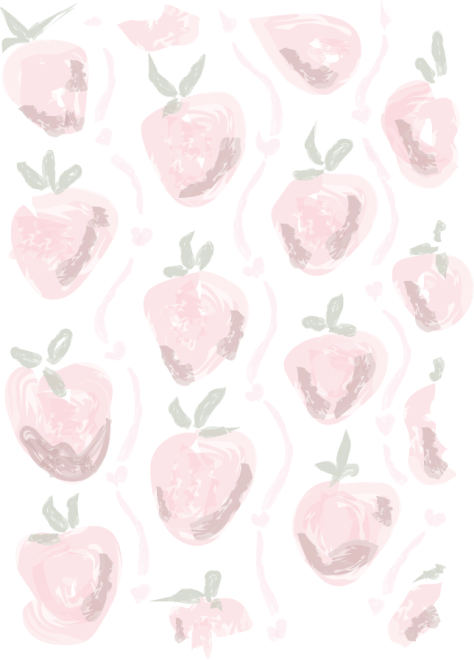
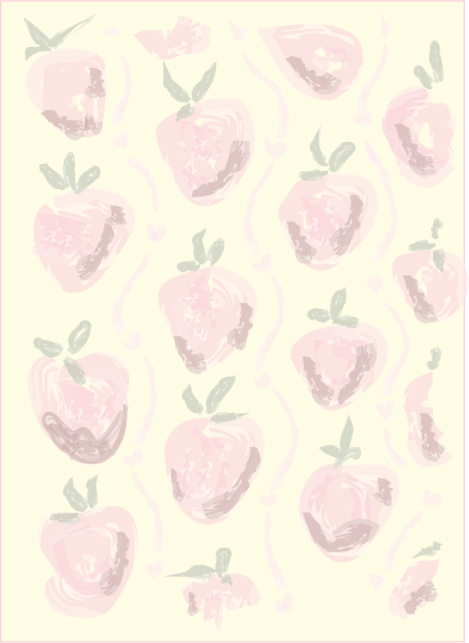
Begging Image

diff --git a/loadImagesFond.js b/loadImagesFond.js
@@ -1,0 +1,27 @@
+const fs = require('fs');
+const path = require('path');
+
+const imagesDirectory = './static/fond'; // Chemin vers le dossier des images
+console.log("")
+
+// Supprimer le contenu existant du fichier imagesList.js
+fs.writeFileSync('./public/imagesListFond.js', '', 'utf-8');
+
+fs.readdir(imagesDirectory, (err, files) => {
+  if (err) {
+    console.error('Erreur lors de la lecture du dossier des images', err);
+    return;
+  }
+
+  // Filtrer les fichiers pour ne garder que les images
+  const imageFiles = files.filter(file => /\.(jpg|png|gif|jpeg|webp)$/.test(file));
+
+  // Générer une liste de chemins d'accès relatifs pour les images
+  const data = imageFiles.map(imageFile => (`/fond/${imageFile}`));
+
+  // Convertir la liste en JSON
+  const imagesList = JSON.stringify(data);
+
+  // Écrire la liste d'images dans le fichier imagesList.js
+  fs.appendFileSync('./public/imagesListFond.js', `export const images = ${imagesList};`, 'utf-8');
+});

diff --git a/public/styles/variables.css b/public/styles/variables.css
@@ -167,6 +167,7 @@ body{
 .painting{
   width: 100%; /* Assure que l'image occupe la largeur complète du conteneur */
   height: auto; /* Ajuste la hauteur en conséquence pour maintenir les proportions */
+  position: relative;
 }
 
 .stylish{
@@ -217,4 +218,9 @@ body{
 
 #filterButton.selected{
   background-color: #FFEB80;
+}
+
+.absolute{
+  position: absolute;
+  transform: translate(0rem, -1rem);
 }

diff --git a/public/stylish.html b/public/stylish.html
@@ -41,6 +41,7 @@
     </div>
 
     <img src="/portraits/PortraitH3.png" alt="Tableau" class="painting p-3">
+    <img src="/portraits/PortraitH3WB.png" alt="Portrait H sans fond" class="painting p-3 absolute">
 
 
     <div id="nav-accessory" class="inactive">

diff --git a/public/imagesListFond.js b/public/imagesListFond.js
@@ -1,0 +1,1 @@
+export const images = ["/fond/FOND1.png","/fond/FOND2.png","/fond/FOND3.png","/fond/FOND4.png","/fond/FOND5.png","/fond/FOND6.png","/fond/FOND7.png","/fond/FOND8.png"];

diff --git a/public/styles/carousel.css b/public/styles/carousel.css
@@ -1,0 +1,3 @@
+body{
+    background-color: red;
+}
